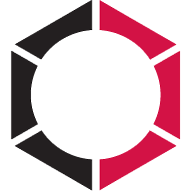
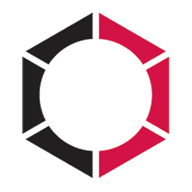
Version 2 Updates
Updated favicons and queries "DZ Staff"

Changed region(s): [[0.0312, 0.0, 0.9375, 1.0]]

diff --git a/src/app/services/search.service.js b/src/app/services/search.service.js
@@ -31,7 +31,7 @@ class SearchService {
     }
 
     static get _fields() {
-        return SearchService._.fields || (SearchService._.fields = 'id,title,clientCorporation(name),publishedCategory(id,name),address(city,state),employmentType,dateLastPublished,publicDescription,isOpen,isPublic,isDeleted');
+        return SearchService._.fields || (SearchService._.fields = 'id,title,clientCorporation(name),publishedCategory(id,name),address(city,state),employmentType,dateLastPublished,correlatedCustomText4,publicDescription,isOpen,isPublic,isDeleted');
     }
 
     static get _sort() {
@@ -188,7 +188,38 @@ class SearchService {
                     return '';
                 },
                 query: (isSearch, additionalQuery, fields) => {
-                    var query = `(isOpen${isSearch ? ':1' : '=true'}) AND (correlatedCustomText4${isSearch ? ':"DZ Staff"' : '=\'DZ Staff\''})`;
+                    
+                    // 12/15/2016:  Querying by division. - Sanford Guerrero
+                    // 1.  Store Division values.
+                    var query = '';
+                    // Yoh                    
+                    //ar divisions = ['Yoh Aviation','Yoh Field Agile','Yoh Field East','Yoh Field Healthcare','Yoh Field West','Yoh National Accounts','Yoh RPO','Yoh Validation','Yoh Managed Services'];
+                    //var divisions = [];
+                    // D&Z Staff
+                    var divisions = ['DZ Staff'];
+                    // D&Z Federal
+                    //var divisions = ['DZ Federal'];
+                    // 2.  Prepare query string.
+                    // If searching for job ID's, query correlatedCustomText4 (division) by bind variable (:"Division").
+                    // Else, write out value to go into IN statement.
+                    
+                    if (divisions.length > 0) {
+                        var getDivisionValue = isSearch ? (division) => '(correlatedCustomText4:"' + division + '")' : (division) => '\'' + division + '\'';
+                        var join = isSearch ? ' OR ' : ',';
+                        var prefix = isSearch ? '' : 'correlatedCustomText4 IN ';
+                        var values = [];
+                        // Loop through Yoh division array values and build correlatedCustomText4 query.
+                        for (var i = 0; i < divisions.length; i++) {
+                            values.push(getDivisionValue(divisions[i]));
+                        }
+                        // Concatenate conditions statements.  (isOpen and correlatedCustomText4)
+                        query = `(isOpen${isSearch ? ':1' : '=true'}) AND ` + prefix + `(` + values.join(join) +  `)`;
+                    }
+                    else {
+                        // Concatenate conditions statements.  (isOpen and correlatedCustomText4)
+                        query = `(isOpen${isSearch ? ':1' : '=true'})`;
+                    }
+                    
 
                     if (additionalQuery) {
                         query += ` AND (${additionalQuery})`;
@@ -215,7 +246,7 @@ class SearchService {
                         values.push(getValue(jobs[i]));
                     }
 
-                    return prefix + `(` + values.join(join) + `) AND (correlatedCustomText4${isSearch ? ':"DZ Staff"' : '=\'DZ Staff\''})`;
+                    return prefix + `(` + values.join(join) + `)`;
                 },
                 relatedJobs: (publishedCategoryID, idToExclude) => {
                     var query = `(isOpen=true) AND publishedCategory.id=${publishedCategoryID}`;

diff --git a/src/index.html b/src/index.html
@@ -7,10 +7,24 @@
         <meta name="viewport" content="width=device-width, initial-scale=1, maximum-scale=1">
         <title>Day &amp; Zimmermann | Career Portal</title>
         <!-- default font -->
-        <link rel="shortcut icon" href="//dayzim.com/images/DayZim/favicon.ico">
         <link href='//fonts.googleapis.com/css?family=Roboto:400,700,500' rel='stylesheet' type='text/css'>
         <link href="//fonts.googleapis.com/css?family=Lato:400" rel="stylesheet" type="text/css" />
         <link href="//fonts.googleapis.com/css?family=Lato:700" rel="stylesheet" type="text/css" />
+        
+        <!-- Shortcut icons -->
+        <link rel="apple-touch-icon" sizes="57x57" href="assets/images/apple-touch-icon-57x57.png" />
+        <link rel="apple-touch-icon" sizes="60x60" href="assets/images/apple-touch-icon-60x60.png" />
+        <link rel="apple-touch-icon" sizes="72x72" href="assets/images/apple-touch-icon-72x72.png" />
+        <link rel="apple-touch-icon" sizes="76x76" href="assets/images/apple-touch-icon-76x76.png" />
+        <link rel="apple-touch-icon" sizes="114x114" href="assets/images/apple-touch-icon-114x114.png" />
+        <link rel="apple-touch-icon" sizes="120x120" href="assets/images/apple-touch-icon-120x120.png" />
+        <link rel="apple-touch-icon" sizes="144x144" href="assets/images/apple-touch-icon-144x144.png" />
+        <link rel="apple-touch-icon" sizes="152x152" href="assets/images/apple-touch-icon-152x152.png" />
+        <link rel="apple-touch-icon" sizes="180x180" href="assets/images/apple-touch-icon-180x180.png" />
+        <link rel="icon" type="image/png" href="assets/images/favicon-32x32.png" sizes="32x32" />
+        <link rel="icon" type="image/png" href="assets/images/android-chrome-192x192.png" sizes="192x192" />
+        <link rel="icon" type="image/png" href="assets/images/favicon-96x96.png" sizes="96x96" />
+        <link rel="icon" type="image/png" href="assets/images/favicon-16x16.png" sizes="16x16" />
 
         <!-- build:css({.tmp/serve,src}) styles/vendor.css -->
         <!-- bower:css -->
